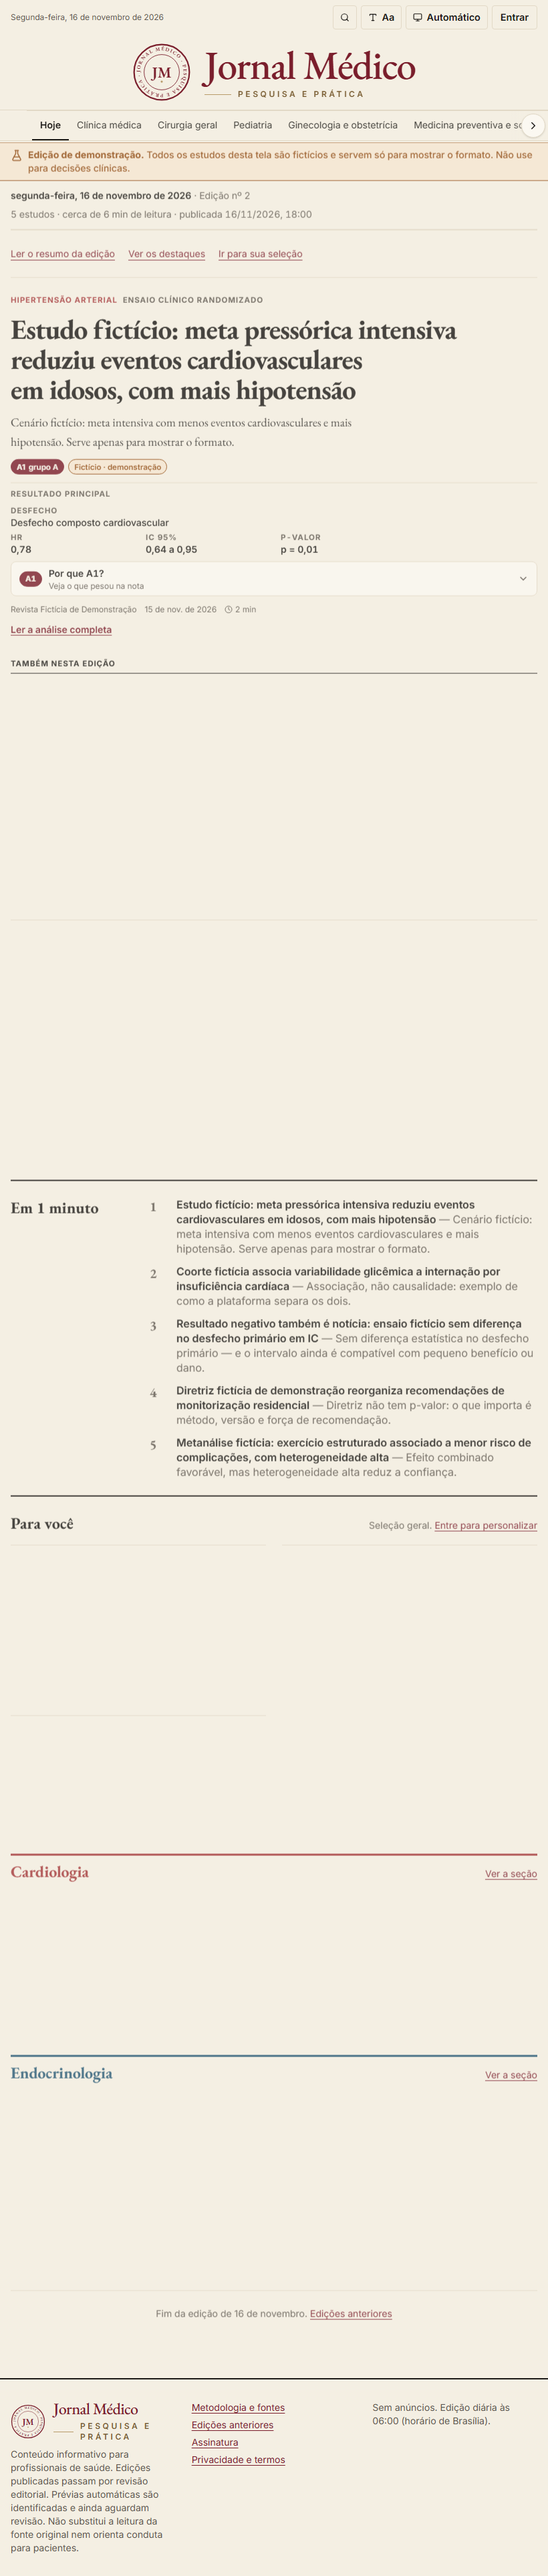
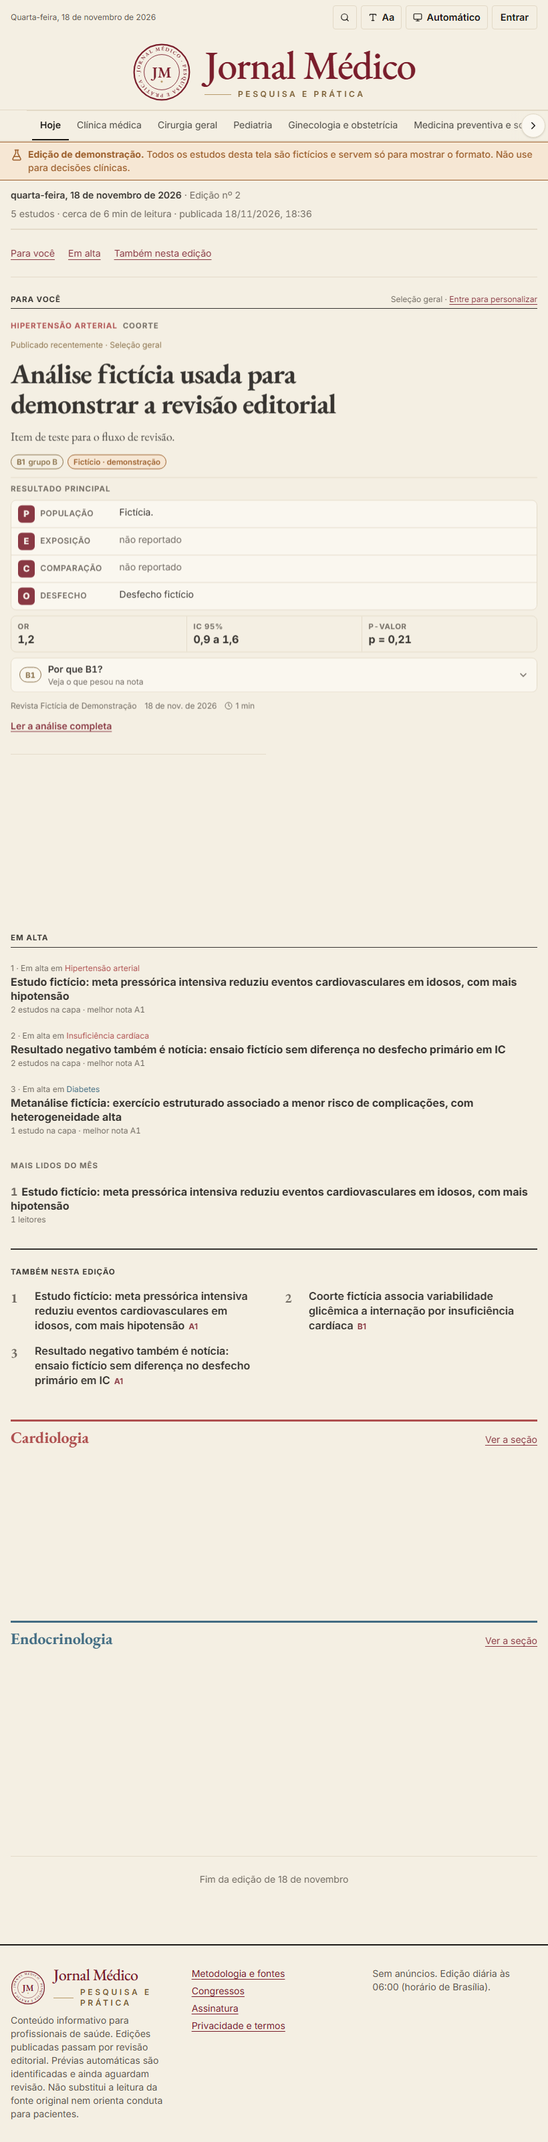
Tabela PICO/PECO no resultado principal; artigo sem Dados ausentes e Rastreabilidade; aviso "Analisado por IA"

diff --git a/apps/web/src/routes/Artigo.tsx b/apps/web/src/routes/Artigo.tsx
@@ -8,11 +8,6 @@ import type { LayoutCtx } from '../components/Layout';
 import { ErrorState, KeyResultPanel, Loading, StatusChips } from '../components/ui';
 
 const locatorLabel: Record<string, string> = { title: 'título', abstract: 'abstract', result: 'resultados', table: 'tabela', section: 'seção do texto', metadata: 'metadados' };
-const missingLabel: Record<string, string> = {
-  not_reported_in_available_material: 'não reportado no material disponível',
-  not_applicable: 'não se aplica a este tipo de publicação',
-  requires_full_text: 'exige o texto integral',
-};
 
 function Section({ id, title, children }: { id: string; title: string; children: ReactNode }) {
   return (
@@ -289,7 +284,6 @@ export default function Artigo() {
               <a href="#desenho">População e métodos</a>
               <a href="#resultados">Resultados</a>
               <a href="#limitacoes">Limitações</a>
-              <a href="#rastreabilidade">Fontes e revisão</a>
             </>}
           </nav>
 
@@ -297,7 +291,7 @@ export default function Artigo() {
           <section aria-labelledby="rapida" className="rule-strong pt-4">
             <h2 id="rapida" className="kicker m-0 mb-3 text-ink">Leitura rápida</h2>
             {a.inShort && <p className="m-0 mb-4 border-l-4 border-primary bg-primary-soft px-4 py-3 font-serif text-lg leading-relaxed"><span className="kicker mb-1 block text-primary">Em poucas palavras</span>{a.inShort}</p>}
-            {a.keyResult && <div className="mb-5"><KeyResultPanel k={a.keyResult} evidence={a.evidence} /></div>}
+            {a.keyResult && <div className="mb-5"><KeyResultPanel k={a.keyResult} evidence={a.evidence} design={a.studyDesign} /></div>}
             {an && <div className="mb-5 border-y border-line py-4">
               <h3 className="m-0 mb-2 font-serif text-xl font-bold">Limitações em destaque</h3>
               {an.limitations.length
@@ -391,43 +385,13 @@ export default function Artigo() {
                   <div><dt className="kicker text-muted">Financiamento</dt><dd className="m-0">{an.funding ?? <span className="text-muted italic">não informado</span>}</dd></div>
                   <div><dt className="kicker text-muted">Conflitos de interesse</dt><dd className="m-0">{an.conflictsOfInterest ?? <span className="text-muted italic">não informado</span>}</dd></div>
                 </dl>
-                {an.missingFields.length > 0 && (
-                  <div className="mt-4">
-                    <h3 className="kicker m-0 mb-1 text-muted">Dados ausentes</h3>
-                    <ul className="m-0 pl-5 text-sm">{an.missingFields.map((m) => <li key={m.field}><code>{m.field}</code>: {missingLabel[m.reason] ?? m.reason}</li>)}</ul>
-                  </div>
-                )}
-              </Section>
-              <Section id="rastreabilidade" title="Rastreabilidade">
-                <ul className="m-0 grid gap-2 pl-5 text-sm">
-                  {an.claims.map((c, i) => (
-                    <li key={i}>
-                      {c.text}{' '}
-                      <span className="text-muted">— {c.origin === 'authors' ? 'afirmação dos autores' : c.origin === 'observed_data' ? 'dado observado' : 'interpretação editorial'}; origem: {locatorLabel[c.locator]}{c.quote ? <>: “<span lang="en">{c.quote}</span>”</> : ''}</span>
-                    </li>
-                  ))}
-                </ul>
-                {an.results.some((r) => r.evidenceRef.quote) && (
-                  <>
-                    <h3 className="kicker m-0 mt-4 mb-1 text-muted">Trechos da fonte para cada número</h3>
-                    <ul className="m-0 grid gap-1 pl-5 text-sm">
-                      {an.results.filter((r) => r.evidenceRef.quote).map((r) => (
-                        <li key={r.id}>{r.outcome} <span className="text-muted">({locatorLabel[r.evidenceRef.locator]}): “<span lang="en">{r.evidenceRef.quote}</span>”</span></li>
-                      ))}
-                    </ul>
-                  </>
-                )}
-                <dl className="tnum m-0 mt-4 grid gap-1 text-xs text-muted">
-                  <div>Status: {a.isDemo ? 'automático em demonstração (fictício)' : a.reviewStatus === 'retracted' ? 'retratado' : a.reviewStatus === 'ai_unreviewed' ? 'gerado por IA, aguardando revisão editorial' : a.reviewStatus === 'corrected' ? 'corrigido' : 'revisado por editor'}{a.reviewedAt ? ` em ${fmtDateTime(a.reviewedAt)}` : ''}</div>
-                  <div>Versão da análise: {a.analysisVersion} · prompt {a.promptVersion} · modelo {a.model}</div>
-                </dl>
               </Section>
             </div>
           )}
           {an && prefs.quick && <p className="rule-top mt-6 pt-4 text-sm text-muted">Modo leitura rápida ativo. Recarregue a página para ver a análise aprofundada.</p>}
           {a.reviewStatus === 'ai_unreviewed' && (
             <p className="m-0 mt-6 border-l-2 border-warning bg-warning-soft px-3 py-2 text-xs text-warning">
-              Gerada por IA ({a.model}), ainda não revisada por editor. Confira os números na publicação original.
+              Analisado por IA ({a.model}), ainda sem revisão de editor. Confira os números na publicação original.
             </p>
           )}
         </div>

diff --git a/apps/web/src/components/ui.tsx b/apps/web/src/components/ui.tsx
@@ -128,30 +128,39 @@ export function WhyGrade({ evidence }: { evidence: ArticleCard['evidence'] }) {
 }
 
 /** Resultado principal: frase clara, tabela com medida, IC e p, e o "Por que A1?". Só números reportados; ausências aparecem como ausências. */
-export function KeyResultPanel({ k, evidence, compact = false }: { k: KeyResult; evidence?: ArticleCard['evidence']; compact?: boolean }) {
+// PICO (estudos experimentais: Intervenção) ou PECO (observacionais: Exposição).
+const EXPERIMENTAL = new Set(['rct', 'cluster_rct']);
+const OBSERVATIONAL = new Set(['cohort', 'case_control', 'cross_sectional']);
+
+/** Resultado principal: frase clara, tabela PICO/PECO e a linha do resultado (medida, IC, p). Só números reportados; ausências aparecem como ausências. */
+export function KeyResultPanel({ k, evidence, design, compact = false }: { k: KeyResult; evidence?: ArticleCard['evidence']; design?: string; compact?: boolean }) {
+  const ie = design && EXPERIMENTAL.has(design) ? { l: 'I', t: 'Intervenção' } : design && OBSERVATIONAL.has(design) ? { l: 'E', t: 'Exposição' } : { l: 'I/E', t: 'Intervenção ou exposição' };
+  const rows: [string, string, string | null | undefined][] = [
+    ['P', 'População', k.population],
+    [ie.l, ie.t, k.intervention],
+    ['C', 'Comparação', k.comparator],
+    ['O', 'Desfecho', k.outcome],
+  ];
+  const na = <span className="font-normal text-muted">não reportado</span>;
   return (
     <section aria-label="Resultado principal" className="tnum grid gap-2 border-t border-line pt-2 text-sm">
       <p className="kicker m-0 text-muted">Resultado principal</p>
       {k.plain && <p className={`m-0 font-serif font-semibold leading-snug ${compact ? 'text-base' : 'text-lg'}`}>{k.plain}</p>}
-      <dl className={`m-0 grid gap-x-5 gap-y-1 ${compact ? 'grid-cols-2' : 'grid-cols-2 sm:grid-cols-4'}`}>
-        <div className="col-span-full">
-          <dt className="kicker text-muted">Desfecho</dt>
-          <dd className="m-0 font-medium">{k.outcome}</dd>
-        </div>
-        <div>
-          <dt className="kicker text-muted">{k.measure ?? 'Medida'}</dt>
-          <dd className="m-0 font-semibold">{fmtVal(k.estimate, k.estimateRaw)}{k.unit === '%' ? '%' : k.unit ? ` ${k.unit}` : ''}</dd>
-        </div>
-        <div>
-          <dt className="kicker text-muted">IC {k.ci ? `${fmtNum(k.ci.level)}%` : ''}</dt>
-          <dd className="m-0 font-semibold">{k.ci ? fmtCi(k.ci) : <span className="font-normal text-muted">não reportado</span>}</dd>
-        </div>
-        {!compact && (
-          <div>
-            <dt className="kicker text-muted">p-valor</dt>
-            <dd className="m-0 font-semibold">{fmtP(k.p, k.pRaw) ?? <span className="font-normal text-muted">não reportado</span>}</dd>
-          </div>
-        )}
+      <table className={`pico ${compact ? 'pico-compact' : ''}`}>
+        <caption className="sr-only">Pergunta do estudo ({ie.l === 'E' ? 'PECO' : 'PICO'}) e resultado principal</caption>
+        <tbody>
+          {rows.map(([l, t, v]) => (
+            <tr key={t}>
+              <th scope="row"><span className="pico-letter" aria-hidden>{l}</span><span className="pico-label">{t}</span></th>
+              <td><span className="pico-value">{v || na}</span></td>
+            </tr>
+          ))}
+        </tbody>
+      </table>
+      <dl className={`pico-result m-0 grid ${compact ? 'grid-cols-2' : 'grid-cols-3'}`}>
+        <div><dt>{k.measure ?? 'Medida'}</dt><dd>{fmtVal(k.estimate, k.estimateRaw)}{k.unit === '%' ? '%' : k.unit ? ` ${k.unit}` : ''}</dd></div>
+        <div><dt>IC {k.ci ? `${fmtNum(k.ci.level)}%` : ''}</dt><dd>{k.ci ? fmtCi(k.ci) : na}</dd></div>
+        {!compact && <div><dt>p-valor</dt><dd>{fmtP(k.p, k.pRaw) ?? na}</dd></div>}
       </dl>
       {evidence && <WhyGrade evidence={evidence} />}
     </section>

diff --git a/tests/e2e/flow.spec.ts b/tests/e2e/flow.spec.ts
@@ -36,12 +36,14 @@ test('leitor: login, onboarding, edição, detalhe, salvar e persistência', asy
   await page.screenshot({ path: `${SHOTS}/jornal-desktop.png`, fullPage: true });
 
   // Detalhe científico
-  await page.locator('#conteudo').getByRole('link', { name: 'Ler a análise completa' }).click();
+  // A capa abre com a seleção pessoal (Para você); a manchete editorial é o demo-001.
+  await expect(page.locator('#conteudo').getByRole('link', { name: 'Ler a análise completa' }).first()).toBeVisible();
+  await page.goto('/artigos/demo-001');
   await expect(page.getByRole('heading', { name: 'Leitura rápida' })).toBeVisible();
   await page.getByRole('navigation', { name: 'Nesta análise' }).getByRole('link', { name: 'Limitações', exact: true }).click();
   await expect(page).toHaveURL(/#limitacoes$/);
   await expect(page.getByRole('heading', { name: 'Limitações, vieses e conflitos' })).toBeInViewport();
-  await expect(page.getByRole('table')).toContainText('0,64 a 0,95');
+  await expect(page.locator('table.results-table')).toContainText('0,64 a 0,95');
   await expect(page.getByRole('group', { name: /Gráfico de efeito/ })).toContainText('Desfecho composto cardiovascular'); // nome completo, sem reticências
   await expect(page.getByRole('group', { name: /Gráfico de efeito/ })).toBeVisible();
   await page.getByRole('button', { name: 'Salvar', exact: true }).click();
@@ -131,7 +133,7 @@ for (const width of [320, 360, 390, 768, 820, 1024, 1440]) {
         const details = page.locator('.publication-details');
         await expect(details).not.toHaveAttribute('open', '');
         await expect(page.getByRole('heading', { name: 'Limitações em destaque' })).toBeVisible();
-        const table = page.getByRole('table');
+        const table = page.locator('table.results-table');
         expect(await table.evaluate((el) => el.scrollWidth - el.clientWidth)).toBeLessThanOrEqual(1);
         await details.getByText('Sobre a publicação', { exact: false }).click();
         await expect(details).toHaveAttribute('open', '');
@@ -183,13 +185,13 @@ test('leitura ampliada no celular mantém resultados acessíveis', async ({ page
   await page.setViewportSize({ width: 390, height: 844 });
   await page.addInitScript(() => localStorage.setItem('jm:fs', '1.25'));
   await page.goto('/artigos/demo-001');
-  await expect(page.getByRole('table')).toBeVisible();
+  await expect(page.locator('table.results-table')).toBeVisible();
   expect(await page.evaluate(() => document.documentElement.scrollWidth - innerWidth)).toBeLessThanOrEqual(0);
 });
 
 test('barra de seções fica presa no topo sem mudar a altura do cabeçalho ao rolar', async ({ page }) => {
   await page.goto('/artigos/demo-001');
-  await expect(page.getByRole('table')).toBeVisible();
+  await expect(page.locator('table.results-table')).toBeVisible();
   const h = () => page.evaluate(() => document.body.scrollHeight);
   const before = await h();
   await page.evaluate(() => window.scrollTo(0, 400));

diff --git a/apps/web/src/styles/app.css b/apps/web/src/styles/app.css
@@ -220,3 +220,20 @@ section[id] { scroll-margin-top: 4.5rem; }
 .congress-card { border: 1px solid var(--color-line); border-radius: 0.75rem; padding: 1rem; background: var(--color-surface); transition: border-color .2s var(--ease-ios), transform .3s var(--ease-ios); }
 .congress-card:hover { border-color: var(--color-primary); transform: translateY(-2px); }
 .congress-date { display: grid; align-content: start; gap: 0.25rem; color: var(--color-primary); }
+
+/* Tabela PICO/PECO do resultado principal */
+.pico { width: 100%; border-collapse: separate; border-spacing: 0; border: 1px solid var(--color-line); border-radius: 0.5rem; overflow: hidden; background: var(--color-surface); }
+.pico th, .pico td { padding: 0.45rem 0.6rem; text-align: left; vertical-align: top; border-top: 1px solid var(--color-line); }
+.pico tr:first-child th, .pico tr:first-child td { border-top: 0; }
+.pico th { width: 9.5rem; font-weight: 600; white-space: nowrap; }
+.pico-letter { display: inline-grid; place-items: center; min-width: 1.6rem; height: 1.6rem; padding: 0 0.3rem; margin-right: 0.5rem; border-radius: 0.35rem; background: var(--color-primary); color: var(--color-on-primary); font-weight: 800; font-size: 0.8rem; }
+.pico-label { font-size: 0.75rem; text-transform: uppercase; letter-spacing: 0.05em; color: var(--color-muted); }
+.pico-compact th { width: auto; }
+.pico-compact .pico-label { display: none; }
+.pico-compact .pico-value { display: -webkit-box; -webkit-line-clamp: 2; -webkit-box-orient: vertical; overflow: hidden; }
+.pico-result { border: 1px solid var(--color-line); border-radius: 0.5rem; overflow: hidden; }
+.pico-result > div { padding: 0.45rem 0.6rem; border-left: 1px solid var(--color-line); }
+.pico-result > div:first-child { border-left: 0; }
+.pico-result dt { font-size: 0.7rem; font-weight: 700; letter-spacing: 0.06em; text-transform: uppercase; color: var(--color-muted); }
+.pico-result dd { margin: 0; font-size: 1rem; font-weight: 700; }
+@media (max-width: 479px) { .pico th { width: auto; } .pico-label { display: none; } }

diff --git a/apps/web/src/components/ArticleCard.tsx b/apps/web/src/components/ArticleCard.tsx
@@ -16,10 +16,11 @@ function Meta({ a }: { a: Card }) {
   );
 }
 
-export function LeadStory({ a }: { a: Card }) {
+export function LeadStory({ a, reasons }: { a: Card; reasons?: string[] }) {
   return (
     <article className="grid gap-3" aria-labelledby={`h-${a.id}`}>
       <TopicKicker topics={a.topics} extra={designLabels[a.studyDesign]} />
+      {reasons && reasons.length > 0 && <p className="m-0 text-xs text-accent">{reasons.join(' · ')}</p>}
       <Link to={`/artigos/${a.slug}`} className="headline-link">
         <h2 id={`h-${a.id}`} className="m-0 font-serif text-[2rem] leading-[1.08] font-bold tracking-tight text-balance sm:text-[2.6rem] lg:text-[2.9rem]">
           {a.headline}
@@ -27,7 +28,7 @@ export function LeadStory({ a }: { a: Card }) {
       </Link>
       {a.inShort && <p className="m-0 max-w-[60ch] font-serif text-lg leading-relaxed text-ink/90">{a.inShort}</p>}
       <StatusChips a={a} />
-      {a.keyResult && <KeyResultPanel k={a.keyResult} evidence={a.evidence} />}
+      {a.keyResult && <KeyResultPanel k={a.keyResult} evidence={a.evidence} design={a.studyDesign} />}
       <Meta a={a} />
       <Link to={`/artigos/${a.slug}`} className="link w-fit text-sm font-semibold">Ler a análise completa</Link>
     </article>
@@ -43,7 +44,7 @@ export function SecondaryStory({ a, showResult = true }: { a: Card; showResult?:
       </Link>
       {a.inShort && <p className="m-0 text-[0.95rem] leading-relaxed text-muted">{a.inShort}</p>}
       <StatusChips a={a} />
-      {a.keyResult && (showResult ? <KeyResultPanel k={a.keyResult} evidence={a.evidence} compact /> : <ResultLine k={a.keyResult} />)}
+      {a.keyResult && (showResult ? <KeyResultPanel k={a.keyResult} evidence={a.evidence} design={a.studyDesign} compact /> : <ResultLine k={a.keyResult} />)}
       <Meta a={a} />
     </article>
   );

diff --git a/apps/web/src/routes/Jornal.tsx b/apps/web/src/routes/Jornal.tsx
@@ -79,20 +79,20 @@ export default function Jornal() {
 
         {/* Para você (esquerda) + Em alta (direita, no estilo "o que está acontecendo") */}
         <section className="grid gap-8 py-6 lg:grid-cols-[minmax(0,1.6fr)_minmax(0,1fr)]">
-          <div aria-labelledby="para-voce" className="lg:border-r lg:border-line lg:pr-8">
+          <section aria-labelledby="para-voce" className="lg:border-r lg:border-line lg:pr-8">
             <div className="mb-4 flex flex-wrap items-baseline justify-between gap-2 border-b border-ink pb-1">
               <h2 id="para-voce" className="kicker m-0 text-ink">Para você</h2>
               <p className="m-0 text-xs text-muted">
                 {me.data ? <>Pelos seus interesses · <Link to="/configuracoes" className="link">Ajustar</Link></> : <>Seleção geral · <Link to="/entrar" className="link">Entre para personalizar</Link></>}
               </p>
             </div>
-            {forYouLead ? <LeadStory a={forYouLead} /> : <p className="text-muted">Sem estudos nesta edição.</p>}
+            {forYouLead ? <LeadStory a={forYouLead} reasons={'reasons' in forYouLead ? (forYouLead as { reasons?: string[] }).reasons : undefined} /> : <p className="text-muted">Sem estudos nesta edição.</p>}
             {forYouRest.length > 0 && (
               <div className="mt-8 grid gap-6 sm:grid-cols-2">
                 {forYouRest.map((a) => <div key={a.id} className="rule-top pt-4"><CompactStory a={a} reasons={a.reasons} /></div>)}
               </div>
             )}
-          </div>
+          </section>
           <TrendingPanel items={all} />
         </section>
 

diff --git a/apps/server/src/modules/content.ts b/apps/server/src/modules/content.ts
@@ -92,7 +92,7 @@ export function cardMap(db: Db, analysisIds: string[], userId?: string | null): 
     const kr = keyResults.find((k) => k.analysis_id === aid);
     const sc = scores.get(aid)!;
     const key: KeyResult | null = kr
-      ? (() => { const x = resultRow(kr); return { plain: p.plainResult ?? null, outcome: x.outcome, measure: x.measure, estimate: x.estimate, estimateRaw: x.estimateRaw, unit: x.unit, ci: x.confidenceInterval, pRaw: x.pValue?.raw ?? null, p: x.pValue ? { operator: x.pValue.operator, value: x.pValue.value } : null }; })()
+      ? (() => { const x = resultRow(kr); return { plain: p.plainResult ?? null, outcome: x.outcome, measure: x.measure, estimate: x.estimate, estimateRaw: x.estimateRaw, unit: x.unit, ci: x.confidenceInterval, pRaw: x.pValue?.raw ?? null, p: x.pValue ? { operator: x.pValue.operator, value: x.pValue.value } : null, population: (kr.population as string | null) ?? p.population?.description ?? null, intervention: p.interventionOrExposure ?? null, comparator: (kr.comparator as string | null) ?? p.comparator ?? null }; })()
       : null;
     const retraction = r.retraction_status as ArticleCard['retractionStatus'];
     const card: ArticleCard = {

diff --git a/apps/web/src/routes/Landing.tsx b/apps/web/src/routes/Landing.tsx
@@ -77,7 +77,7 @@ export default function Landing() {
                 <p className="kicker m-0 text-muted">{a.topics[0]?.label} · {designLabels[a.studyDesign]}</p>
                 <p className={`m-0 font-serif leading-snug font-bold ${i ? 'text-lg' : 'text-2xl'}`}>{a.headline}</p>
                 <StatusChips a={a} />
-                {i === 0 && a.keyResult && <KeyResultPanel k={a.keyResult} evidence={a.evidence} compact />}
+                {i === 0 && a.keyResult && <KeyResultPanel k={a.keyResult} evidence={a.evidence} design={a.studyDesign} compact />}
               </div>
             ))}
             {!e && !ed.isLoading && !ed.error && <p className="py-6 text-muted">A prévia aparece quando houver uma edição publicada.</p>}

diff --git a/packages/contracts/src/index.ts b/packages/contracts/src/index.ts
@@ -200,6 +200,10 @@ export interface KeyResult {
   ci: { level: number; lower: number; upper: number; raw: string } | null;
   pRaw: string | null;
   p: { operator: '=' | '<' | '<=' | '>' | '>='; value: number } | null;
+  /** PICO/PECO: população, intervenção ou exposição e comparação, como a análise extraiu (null quando ausentes). */
+  population?: string | null;
+  intervention?: string | null;
+  comparator?: string | null;
 }
 
 export interface ArticleCard {
